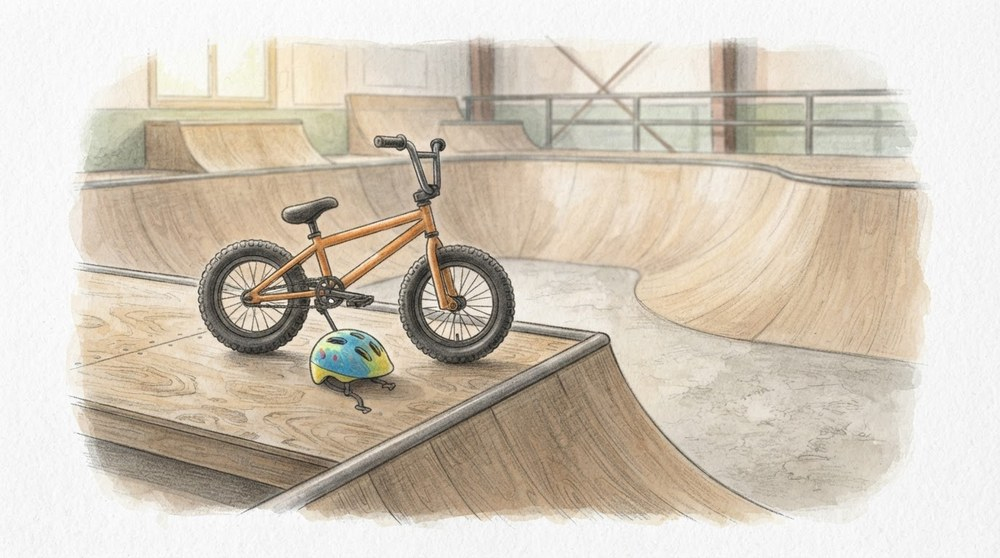
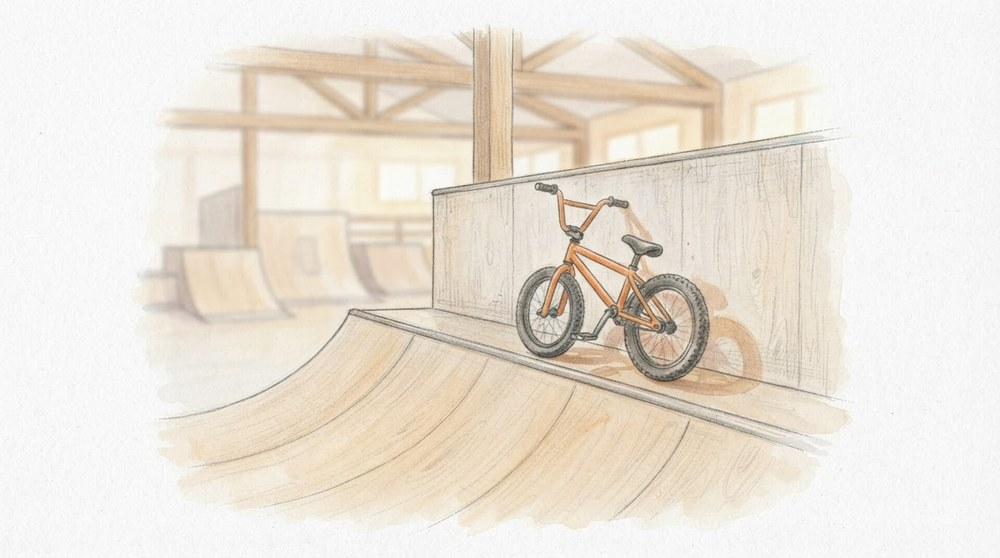
초안 2: 제10호 검수 반영(원문에 없는 문장 고침, 자전거 그림 다시), 달 카드 점검이 신문 날짜에 흔들리지 않게
Claude-Session: https://claude.ai/code/session_01BERWee5SW6nSaidm893bbT

diff --git a/gunggeum/tests/run.js b/gunggeum/tests/run.js
@@ -616,7 +616,7 @@ async function newsTests(b) {
 
   { // 17. 달 카드: 오늘 이름과 같은 "다음 달"을 내지 않음 (오늘 반달인데 "반달은 내일" 금지)
     console.log('17. 달 카드 다음 모양');
-    const p = await open(b, { time: '2026-11-24T19:30', read: '2026-11-24' }); await p.saver(); // v147부터 달 카드는 보름·초승 무렵 저녁에만 — 보름 무렵(11/24)으로 본다
+    const p = await open(b, { time: '2026-11-24T19:30', read: newsDate }); await p.saver(); // 신문은 읽은 것으로(그날 신문 날짜에 따라 신문 카드가 대신 뜨지 않게) · v147부터 달 카드는 보름·초승 무렵 저녁에만 — 보름 무렵(11/24)으로 본다
     const m = await p.evaluate(() => { const sk = window.Sky && window.Sky.compute ? null : null; const big = [...document.querySelectorAll('#fcFeat .cc-big')].map(x => x.textContent.trim()); const all = document.getElementById('fcFeat').innerText; return { big, all }; });
     const nm = m.big.find(x => /달/.test(x)) || '';
     ok('달 카드: "' + nm + '" 아래에 "' + nm + '은 …"이 없다', !!nm && !new RegExp(nm + '은 ').test(m.all), m);
